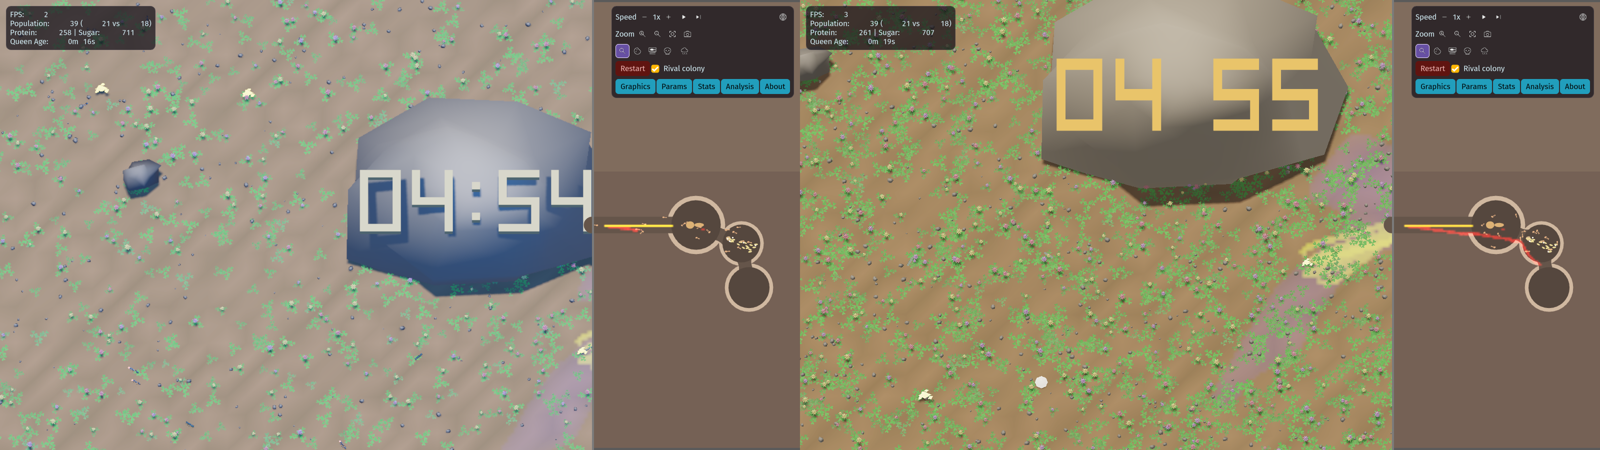
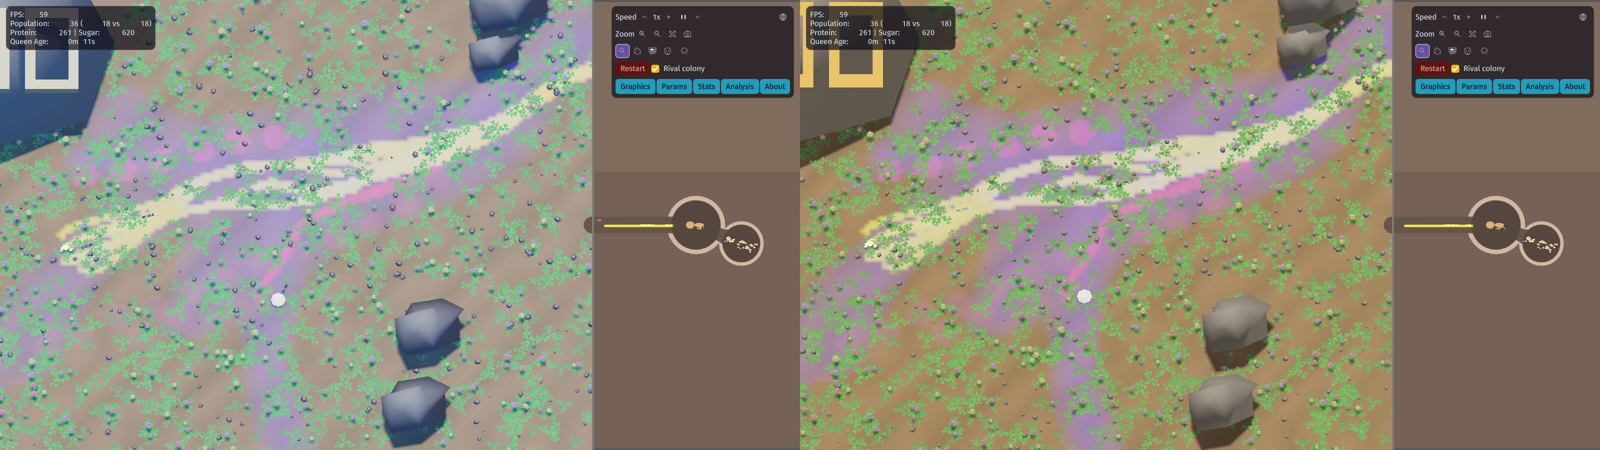
fix(render3d): cool night ambient tint (#68)

diff --git a/koolApp/src/commonMain/kotlin/com/neojou/myants/render3d/OutdoorLighting.kt b/koolApp/src/commonMain/kotlin/com/neojou/myants/render3d/OutdoorLighting.kt
@@ -22,6 +22,23 @@ internal object OutdoorLighting {
     val ambientHorizon = Color(0.80f, 0.78f, 0.74f)
     val ambientGround = Color(0.55f, 0.45f, 0.35f)
 
+    /** Night sky gradient suggested by the Artist on #74: cool moonlit, not saturated blue. */
+    val nightZenith = Color(0.30f, 0.36f, 0.50f)
+    val nightHorizon = Color(0.34f, 0.38f, 0.48f)
+
+    /**
+     * The irradiance map is baked once from the day gradient, so night is a per-channel
+     * tint on the ambient factor: night horizon / day horizon, normalised to luma 1.
+     * Day gradient x tint is roughly the night gradient.
+     */
+    val nightTint: Color = run {
+        val r = nightHorizon.r / ambientHorizon.r
+        val g = nightHorizon.g / ambientHorizon.g
+        val b = nightHorizon.b / ambientHorizon.b
+        val l = 0.2126f * r + 0.7152f * g + 0.0722f * b
+        Color(r / l, g / l, b / l, 1f)
+    }
+
     const val AMBIENT_DAY = 0.40f
     const val AMBIENT_NIGHT = 0.22f
 
@@ -50,5 +67,13 @@ internal object OutdoorLighting {
         if (isNight(bright)) return AMBIENT_NIGHT
         val t = ((bright - NIGHT_BELOW) / (1f - NIGHT_BELOW)).coerceIn(0f, 1f)
         return AMBIENT_NIGHT + (AMBIENT_DAY - AMBIENT_NIGHT) * t
+    }
+
+    /** Ambient factor: cool tinted night, blending to the neutral day factor as the sun rises. */
+    fun ambientColor(bright: Float): Color {
+        val k = ambientStrength(bright)
+        val t = if (isNight(bright)) 0f else ((bright - NIGHT_BELOW) / (1f - NIGHT_BELOW)).coerceIn(0f, 1f)
+        fun ch(n: Float) = k * (n + (1f - n) * t)
+        return Color(ch(nightTint.r), ch(nightTint.g), ch(nightTint.b), 1f)
     }
 }

diff --git a/koolApp/src/commonTest/kotlin/com/neojou/myants/render3d/OutdoorLightingTest.kt b/koolApp/src/commonTest/kotlin/com/neojou/myants/render3d/OutdoorLightingTest.kt
@@ -67,4 +67,27 @@ class OutdoorLightingTest {
         assertTrue(OutdoorLighting.BLOOM_RADIUS <= 2f)
         assertEquals(1f, OutdoorLighting.EXPOSURE)
     }
+
+    private fun luma(c: de.fabmax.kool.util.Color) = 0.2126f * c.r + 0.7152f * c.g + 0.0722f * c.b
+
+    @Test
+    fun nightAmbientIsCoolButNotSaturated() {
+        val n = OutdoorLighting.ambientColor(0f)
+        assertTrue(n.b > n.r, "night ambient must be cool: $n")
+        assertTrue(n.b / n.r <= 1.6f, "night ambient must not be saturated blue: $n")
+        assertTrue(luma(n) in 0.20f..0.25f, "night ambient strength ${luma(n)}")
+    }
+
+    @Test
+    fun dayAmbientIsNeutralAndBlendIsSmooth() {
+        val d = OutdoorLighting.ambientColor(1f)
+        assertTrue(d.r == d.g && d.g == d.b, "day keeps the warm gradient untinted: $d")
+        assertTrue(luma(d) in 0.35f..0.45f)
+        var last = -1f
+        for (i in 0..100) {
+            val c = OutdoorLighting.ambientColor(i / 100f)
+            assertTrue(c.b / c.r >= 1f - 1e-4f, "never warmer than the gradient")
+            assertTrue(luma(c) >= last - 1e-4f); last = luma(c)
+        }
+    }
 }

diff --git a/koolApp/src/commonMain/kotlin/com/neojou/myants/render3d/TerrainRenderer.kt b/koolApp/src/commonMain/kotlin/com/neojou/myants/render3d/TerrainRenderer.kt
@@ -108,8 +108,7 @@ internal class TerrainRenderer : SubRenderer {
         )
         light.setup(dir).setColor(OutdoorLighting.lightColor(bright), OutdoorLighting.lightIntensity(bright))
         lighting?.let {
-            val k = OutdoorLighting.ambientStrength(bright)
-            it.ambientFactor = Color(k, k, k, 1f)
+            it.ambientFactor = OutdoorLighting.ambientColor(bright)
         }
     }
 

diff --git a/docs/screenshots/68-lighting/measure.py b/docs/screenshots/68-lighting/measure.py
@@ -1,30 +1,27 @@
-import numpy as np,colorsys
+import numpy as np,colorsys,sys
 from PIL import Image
 from skimage.color import rgb2lab,deltaE_ciede2000
 T=np.array([233,196,106.])
 def lum(c):
     c=np.asarray(c,float)/255; c=np.where(c<=0.04045,c/12.92,((c+0.055)/1.055)**2.4); return c@[0.2126,0.7152,0.0722]
 def cr(a,b): a,b=lum(a),lum(b); return (max(a,b)+0.05)/(min(a,b)+0.05)
-def de(a,b): return float(deltaE_ciede2000(rgb2lab(np.array([[a]])/255),rgb2lab(np.array([[b]])/255))[0,0])
-# stone bbox, digit band (x0,y0,x1,y1)
-B={('main','day'):((720,150,1180,500),(740,210,1180,330)),('main','night'):((160,250,760,780),(160,360,720,520)),
-   ('pr','day'):((500,0,1100,400),(520,60,1080,180)),('pr','night'):((0,760,560,900),(0,840,560,900))}
-rows=[]
-for (tag,s),(sb,db) in B.items():
-    im=np.asarray(Image.open(f'{tag}_{s}.png').convert('RGB')).astype(float)
-    W=im[:, :1180].copy(); m=np.ones(W.shape[:2],bool); m[:130,:330]=False
-    Y=(W[...,0]*.2126+W[...,1]*.7152+W[...,2]*.0722)[m].mean()
-    gm=np.ones_like(m); gm[sb[1]:sb[3],sb[0]:sb[2]]=False; gm&=m
+def de(a,b): return deltaE_ciede2000(rgb2lab(np.atleast_2d(a)[None]/255)[0],rgb2lab(np.broadcast_to(b,np.atleast_2d(a).shape)[None]/255)[0])
+SB=(0,540,300,900); DB=(20,640,210,870)   # locked camera: same box for main and PR
+Ys={}
+for tag in ['main','pr']:
+  for s in ['day','night']:
+    try: im=np.asarray(Image.open(f'{tag}_{s}.png').convert('RGB')).astype(float)
+    except: continue
+    W=im[:, :1180]; m=np.ones(W.shape[:2],bool); m[:130,:330]=False
+    Y=(W[...,0]*.2126+W[...,1]*.7152+W[...,2]*.0722)[m].mean(); Ys[(tag,s)]=Y
+    if s!='night': print(f"{tag} {s} Y'={Y:.1f}"); continue
+    gm=m.copy(); gm[SB[1]:SB[3],SB[0]:SB[2]]=False
     ground=np.median(W[gm],0)
-    S=im[sb[1]:sb[3],sb[0]:sb[2]].reshape(-1,3); D=im[db[1]:db[3],db[0]:db[2]].reshape(-1,3)
-    mx=D.max(1);mn=D.min(1);sat=(mx-mn)/np.maximum(mx,1)
-    if tag=='pr': dm=(sat>0.3)&(D[:,0]>D[:,2]+40)&(mx>120)
-    else: dm=(mn>np.percentile(mn,85))&(sat<0.12)
-    dig=np.median(D[dm],0)
-    smx=S.max(1);smn=S.min(1);ss=(smx-smn)/np.maximum(smx,1)
-    if tag=='pr': st=(ss<0.2)
-    else: st=(S[:,2]>S[:,0]+10)
-    st&=np.array([de(p,dig)>15 for p in S[::1][:0]]).all() if False else st
-    SS=S[st]; L=lum(SS); lit=np.median(SS[L>=np.percentile(L,75)],0); dark=np.median(SS[L<=np.percentile(L,25)],0); sm=np.median(SS,0)
+    S=im[SB[1]:SB[3],SB[0]:SB[2]].reshape(-1,3); sm=np.median(S,0)
+    D=im[DB[1]:DB[3],DB[0]:DB[2]].reshape(-1,3)
+    dig_m=de(D,sm)>12; dig=np.median(D[dig_m],0)
+    st=S[de(S,sm)<=12]; L=lum(st); lit=np.median(st[L>=np.percentile(L,75)],0)
     h,sa,v=colorsys.rgb_to_hsv(*(dig/255))
-    print(f"{tag:4} {s:5} Y'={Y:5.1f} ground={ground.astype(int)} stoneLit={lit.astype(int)} R-B={lit[0]-lit[2]:+.0f} stoneDark={dark.astype(int)} R-B={dark[0]-dark[2]:+.0f} digit={dig.astype(int)} dE={de(dig,T):.1f} hue={h*360:.0f} sat={sa:.2f} digit:stone={cr(dig,sm):.2f} stone:ground={cr(sm,ground):.2f}")
+    print(f"{tag} night Y'={Y:.1f} ground={ground.astype(int)} B-R={ground[2]-ground[0]:+.0f} stone={sm.astype(int)} stoneLit={lit.astype(int)} R-B={lit[0]-lit[2]:+.0f} stone:ground={cr(sm,ground):.2f} digit={dig.astype(int)} dE={float(de(dig,T)[0]):.1f} hue={h*360:.0f} sat={sa:.2f} digit:stone={cr(dig,sm):.2f}")
+for t in ['main','pr']:
+  if (t,'day') in Ys and (t,'night') in Ys: print(t,'night/day',f"{Ys[(t,'night')]/Ys[(t,'day')]*100:.0f}%")

diff --git a/docs/screenshots/68-lighting/shot_lock.py b/docs/screenshots/68-lighting/shot_lock.py
@@ -1,0 +1,17 @@
+import asyncio,sys
+from playwright.async_api import async_playwright
+port,tag=sys.argv[1],sys.argv[2]
+async def main():
+    async with async_playwright() as p:
+        b=await p.chromium.launch(executable_path="/usr/bin/google-chrome",args=["--use-angle=swiftshader","--enable-unsafe-swiftshader","--ignore-gpu-blocklist","--disable-webgpu"])
+        w=await b.new_page(); await w.goto(f"http://localhost:{port}/index.html?backend=gl"); await w.wait_for_timeout(15000); await w.close()
+        for shot in sys.argv[3].split(","):
+            pg=await b.new_page(viewport={"width":1600,"height":900})
+            await pg.clock.install(time="2026-10-26T12:00:00+08:00")
+            await pg.goto(f"http://localhost:{port}/index.html?backend=gl&seed=12345&quality=medium&shot={shot}")
+            pg.set_default_timeout(0)
+            await pg.clock.run_for(10000)
+            await pg.clock.resume()
+            await pg.screenshot(path=f"{tag}_{shot}.png"); await pg.close()
+        await b.close()
+asyncio.run(main())

diff --git a/CHANGELOG.md b/CHANGELOG.md
@@ -5,7 +5,7 @@
 ## [Unreleased]
 
 ### 修正
-- 戶外光照照 #68 美術目標值修正：太陽色 (1, 0.93, 0.82)、強度隨高度 1.0–3.2、仰角 10°–58°；月光 (0.62, 0.66, 0.78)×0.7；拿掉 SkyCube 動態 IBL（藍天把石頭與數字洗成藍白），改成去藍的固定漸層環境光，ambient 日 0.40／夜 0.22；bloom 0.35／門檻 1.2／半徑 2；時鐘石數字改成 unlit（forward pass，不受日月與天光影響，畫面上就是 #E9C46A）。參數集中在 `render3d/OutdoorLighting.kt`，有單元測試（Closes #68）
+- 戶外光照照 #68 美術目標值修正：太陽色 (1, 0.93, 0.82)、強度隨高度 1.0–3.2、仰角 10°–58°；月光 (0.62, 0.66, 0.78)×0.7；拿掉 SkyCube 動態 IBL（藍天把石頭與數字洗成藍白），改成去藍的固定漸層環境光，ambient 日 0.40／夜 0.22，夜間環境光帶冷色（依夜空漸層 (0.34, 0.38, 0.48) 換算的色調，B/R 約 1.5），天亮時漸變回中性；bloom 0.35／門檻 1.2／半徑 2；時鐘石數字改成 unlit（forward pass，不受日月與天光影響，畫面上就是 #E9C46A）。參數集中在 `render3d/OutdoorLighting.kt`，有單元測試（Closes #68）
 - 室外 glb 的材質不再沿用螞蟻的 chitin／eye／mandible：sugar、protein、pebble、leaf、clock_stone、clover_tuft、clover_flower、prey、predator、spider、ladybug 改成跟 runtime 顏色一致的 PBR baseColor 和 roughness，鍬形蟲（beetle.glb）補上材質。只改 JSON，幾何不變。對照表在 `tools/glb_palette.py`，用 `tools/glb_materials.py --check` 驗證（Refs #62）
 - 三葉草 glb 重做：小葉改成有深缺口的心形，三片以 120° 排列；花從平滑球改成低多邊面的小花冠（46 面），草叢 144 面。材質沿用 `tools/glb_palette.py`（Refs #69、#68）
 - 3D 時鐘石改成暖灰（0.50, 0.45, 0.38），數字改用 `#E9C46A`；三葉草的花不再是一律白色，每個位置固定取 petalRose、petalGold、petalLilac 其中一色（Refs #62）

diff --git a/docs/screenshots/68-lighting/README.md b/docs/screenshots/68-lighting/README.md
@@ -4,3 +4,5 @@
 兩邊截圖時刻不同，相機位置略有差異。headless WebGL 沒有 bloom（kool 的 bloom 只在 Vulkan/WebGPU），所以 bloom 參數無法用這組圖驗。
 
 第二輪（數字 unlit）重拍，量測腳本 `measure.py`（石頭、數字範圍是手動框的；CIEDE2000、WCAG 相對亮度）。數值見 PR #74 說明。
+
+第三輪（冷色夜間環境光）：`shot_lock.py` 用 Playwright 假時鐘鎖在 2026-10-26 12:00（UTC+8），模擬 10 秒後截圖，main 與 PR 的時刻與相機一致；先開一頁暖機，避免第一頁空白。量測 `measure.py`。ant 視角這輪沒拍（D 項移到 #76）。
